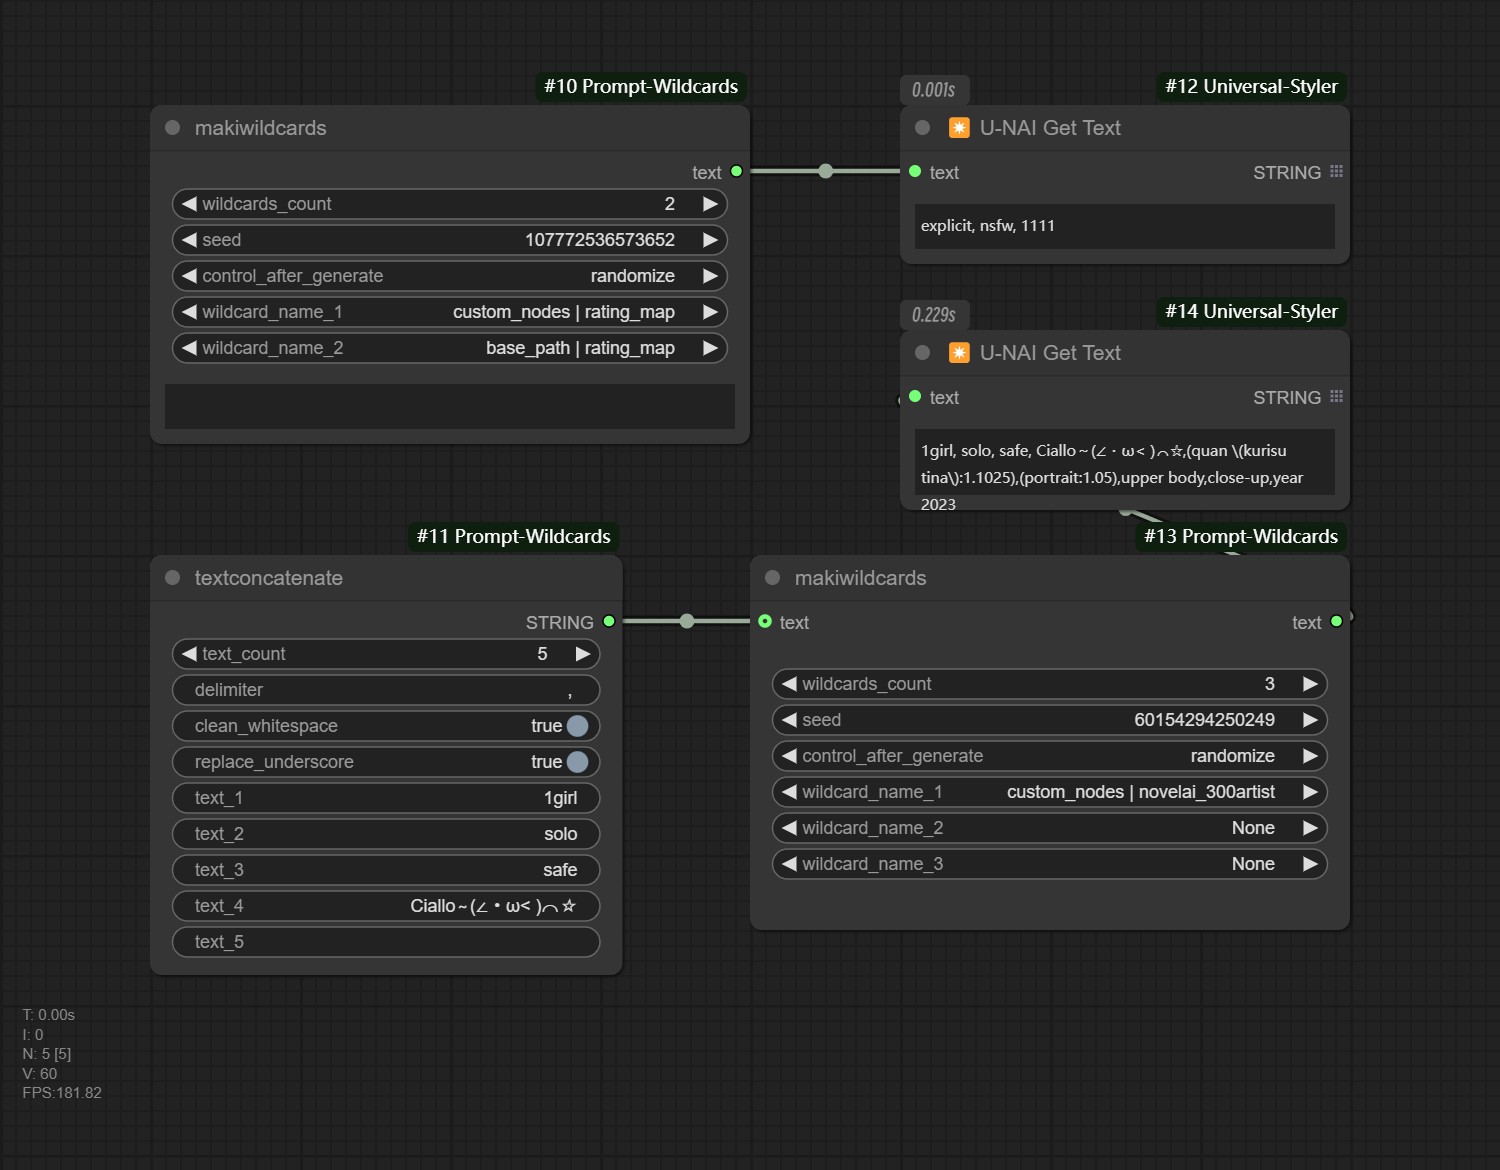
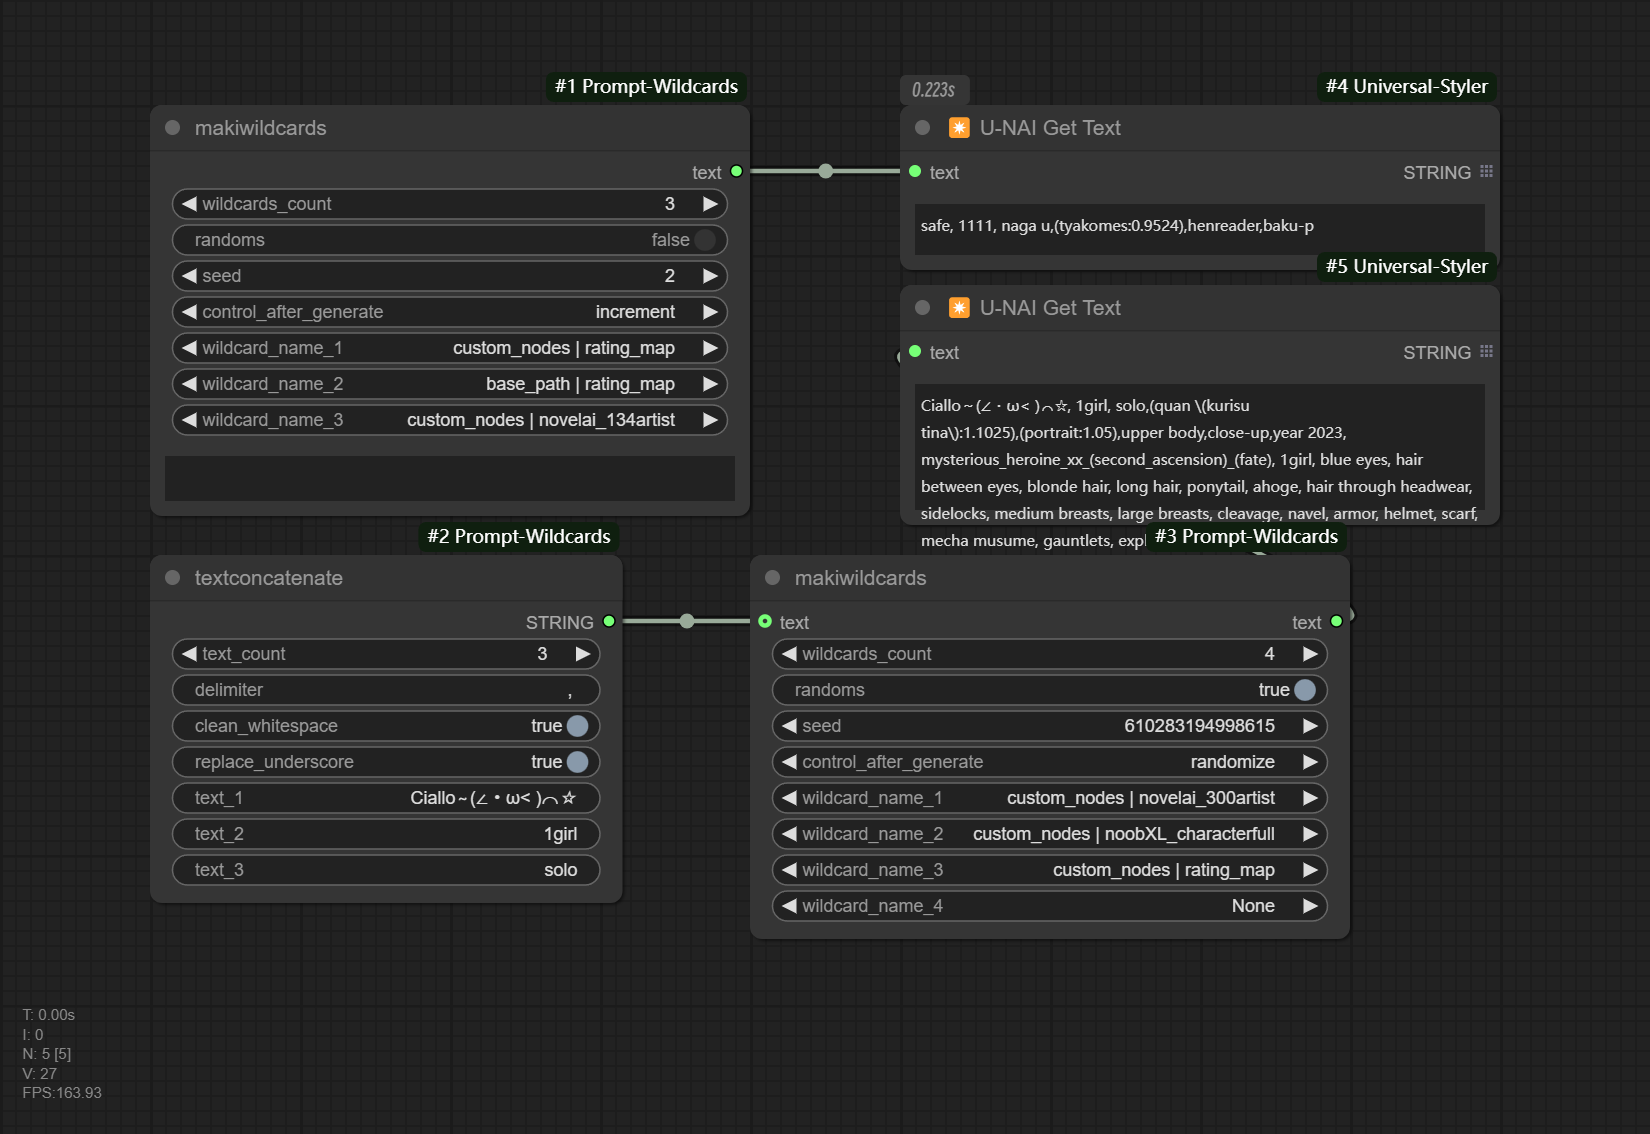
update README

diff --git a/README.md b/README.md
@@ -15,6 +15,21 @@ Wildcards folder PATH:
 * Create a directory in the root of your ComfyUI install called "wildcards" (ComfyUI/wildcards)
 * The "wildcards"  in the directory of this plugin (/ComfyUI/custom_nodes/ComfyUI Prompt Wildcards/wildcards)
 
+Nodes Parameter Explanation:
+
+* **makiwildcards** :
+  * **wildcards_count** : Select the number of wildcards to use.
+  * **randoms** : Whether to keep the seed random. When set to `false`, it selects the row based on the seed value. `true` is for replicating the original content (this parameter was not added before 2025/1/8), meaning random rows.
+  * **seed** : Random seed, used to select a row from the txt file based on the `randoms` mode.
+  * **wildcard_name_{n}** : Select wildcard files.
+  * **text** : The content here will be added before the wildcards, separated by commas.
+* **textconcatenate** :
+  * **text_count** : Select the number of texts to use.
+  * **delimiter** : Separator.
+  * **clean_whitespace** : Remove leading and trailing whitespace.
+  * **replace_underscores** : Replace underscores with spaces.
+  * **text_{n}** : Text content.
+
 # Example
 
 ![image](./example/ComfyUI-Prompt-Wildcards.png)

diff --git a/README-zh.md b/README-zh.md
@@ -15,6 +15,21 @@ Wildcards文件夹路径：
 * 在 ComfyUI 安装的根目录中创建一个名为 “wildcards” 的目录（/ComfyUI/wildcards）
 * 本插件目录下的“wildcards”（/ComfyUI/custom_nodes/ComfyUI-Prompt-Wildcards/wildcards）
 
+节点参数解释：
+
+* makiwildcards:
+  * wildcards_count:选择使用的wildcard数量
+  * randoms:是否保持种子随机，调整为false时按照种子的数值选择行数，true是为了复刻原先内容（2025/1/8前未添加该参数），即随机行
+  * seed:随机种子，根据 `randoms`的模式选择txt文件中的某行
+  * wildcard_name_{n}:选择wildcard文件
+  * text:这里的内容将会添加到wildcards前面并以英文逗号相隔
+* textconcatenate
+  * text_count:选择使用的text数量
+  * delimiter:间隔符
+  * clean_whitespace:移除两端空白字符
+  * replace_underscors:将下划线替换为空格
+  * text_{n}:文本内容
+
 # 示例
 
 ![image](./example/ComfyUI-Prompt-Wildcards.png)
